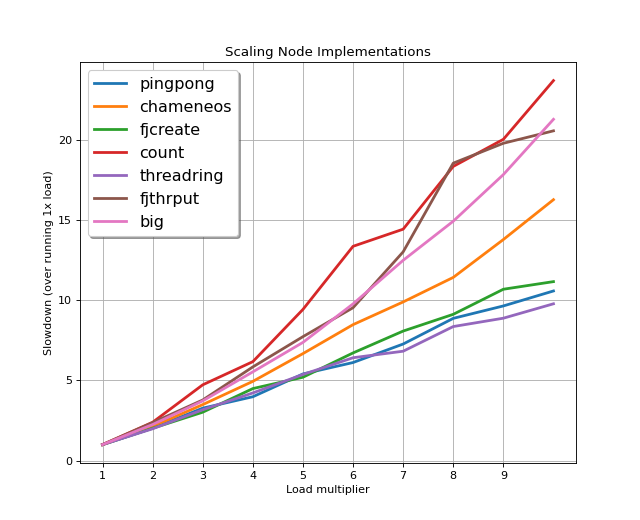
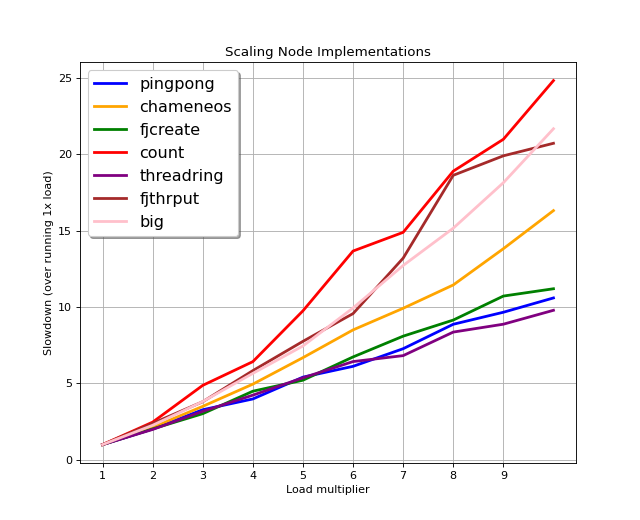
Added actor system use case diagram

diff --git a/benchmarks/visualisations/slowdowngraph.py b/benchmarks/visualisations/slowdowngraph.py
@@ -7,6 +7,7 @@ import re
 
 #Scrape node results
 data = {}
+colours = ['blue', 'orange', 'green', 'red', 'purple', 'brown', 'pink']
 directory = '../node/micro/scaling-results'
 
 #First populate names
@@ -23,17 +24,21 @@ for filename in os.listdir(directory):
     with open(f'{directory}/{filename}') as f:
         for line in f.readlines():
             data[name][multiplier].append(int(line.strip()))
-
-    data[name][multiplier] = np.average(data[name][multiplier])
     
+colour = 0
+
 figure(figsize=(8, 6.5), dpi=80)
 for name in data:
     ordered_data = []
     for multiplier in sorted(data[name]):
         ordered_data.append(data[name][multiplier])
         
-    scaling_data = [ordered_data[n]/ordered_data[0] for n in np.arange(0, len(ordered_data))]
-    plt.plot(sorted(data[name]), scaling_data, label=name, linewidth=2.5)
+    scaling_data = [np.array(ordered_data[n])/np.array(ordered_data[0]) for n in np.arange(0, len(ordered_data))]
+    scaling_data_average = [np.average(el) for el in scaling_data]
+    scaling_data_err = [sem(el) for el in scaling_data]
+    plt.plot(sorted(data[name]), scaling_data_average, label=name, linewidth=2.5, color=colours[colour])
+    # plt.errorbar(sorted(data[name]), scaling_data_average,  yerr = scaling_data_err,fmt='none',ecolor =colours[colour],color=colours[colour])
+    colour += 1
     
 plt.legend(loc='upper left', shadow=True, fontsize='x-large')
 plt.locator_params(axis="x", integer=True, tight=True)

diff --git a/README.md b/README.md
@@ -193,3 +193,13 @@ The following diagram is a scenario which uses all communication links abstracte
   <img src="documentation/readme-diagrams/network.svg" />
 </p>
 
+# Visualisations
+This goes through instructions on how to reproduce the diagrams shown in the write-up
+
+## Micro Comparision
+
+## Parallel Speedup
+
+## Micro Benchmark Scaling
+
+## Link Comparision
